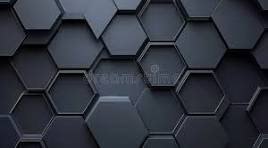
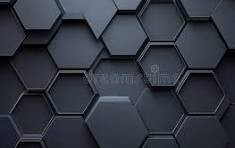
MAJLL4

diff --git a/style.css b/style.css
@@ -27,7 +27,7 @@
 .bgimage {
     height: 100vh;
     max-height: 900px;
-    background: url("images/Fond.jpg");
+    background: url("images/sombrethech\ \(1\).webp");
     background-size: cover;
     position: relative;
 }
@@ -301,5 +301,47 @@ display: flex;
 
 .card.portfolioContent:hover .card-desc{
   transform: translateY(-75%);
+}
+/* =========================
+   MOBILE FIX (HERO)
+========================= */
+@media (max-width: 768px){
+
+  /* Le problème vient du height:100vh sur mobile */
+  .bgimage{
+    height: auto !important;     /* au lieu de 100vh sur mobile */
+    min-height: 85vh;            /* garde un effet hero */
+    max-height: none;            /* enlève la limite 900px sur mobile */
+    padding: 110px 16px 40px;    /* espace sous la navbar */
+    background-position: center;
+  }
+
+  /* Texte : plus petit et centré */
+  .hero_title{
+    font-size: 2.2rem !important;
+    line-height: 1.15;
+  }
+
+  .hero_desc{
+    font-size: 1.2rem !important;
+  }
+
+  /* Logos : un peu plus petits */
+  .hero-certifications{
+    gap: 12px;
+    margin-top: 14px;
+  }
+
+  .hero-certif-logo{
+    height: 44px;
+    padding: 6px 10px;
+  }
+}
+
+/* Fix moderne pour la hauteur mobile (barre d’adresse) */
+@supports (height: 100svh){
+  @media (max-width: 768px){
+    .bgimage{ min-height: 100svh; }
+  }
 }
  
